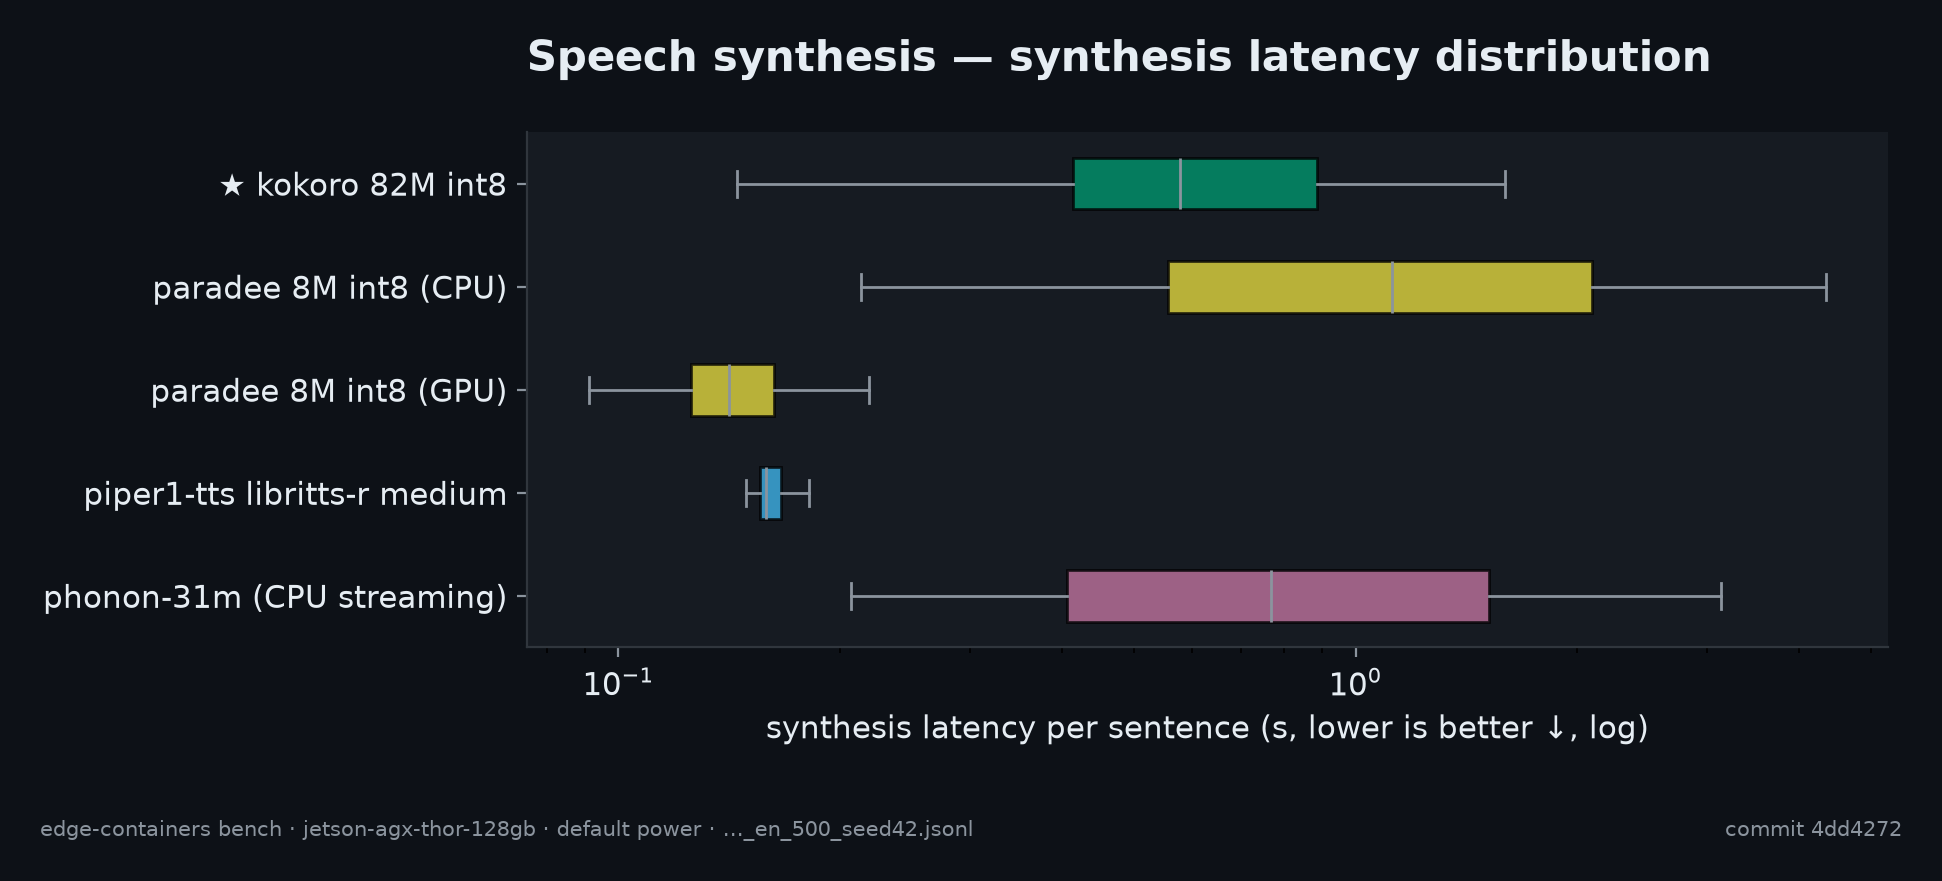
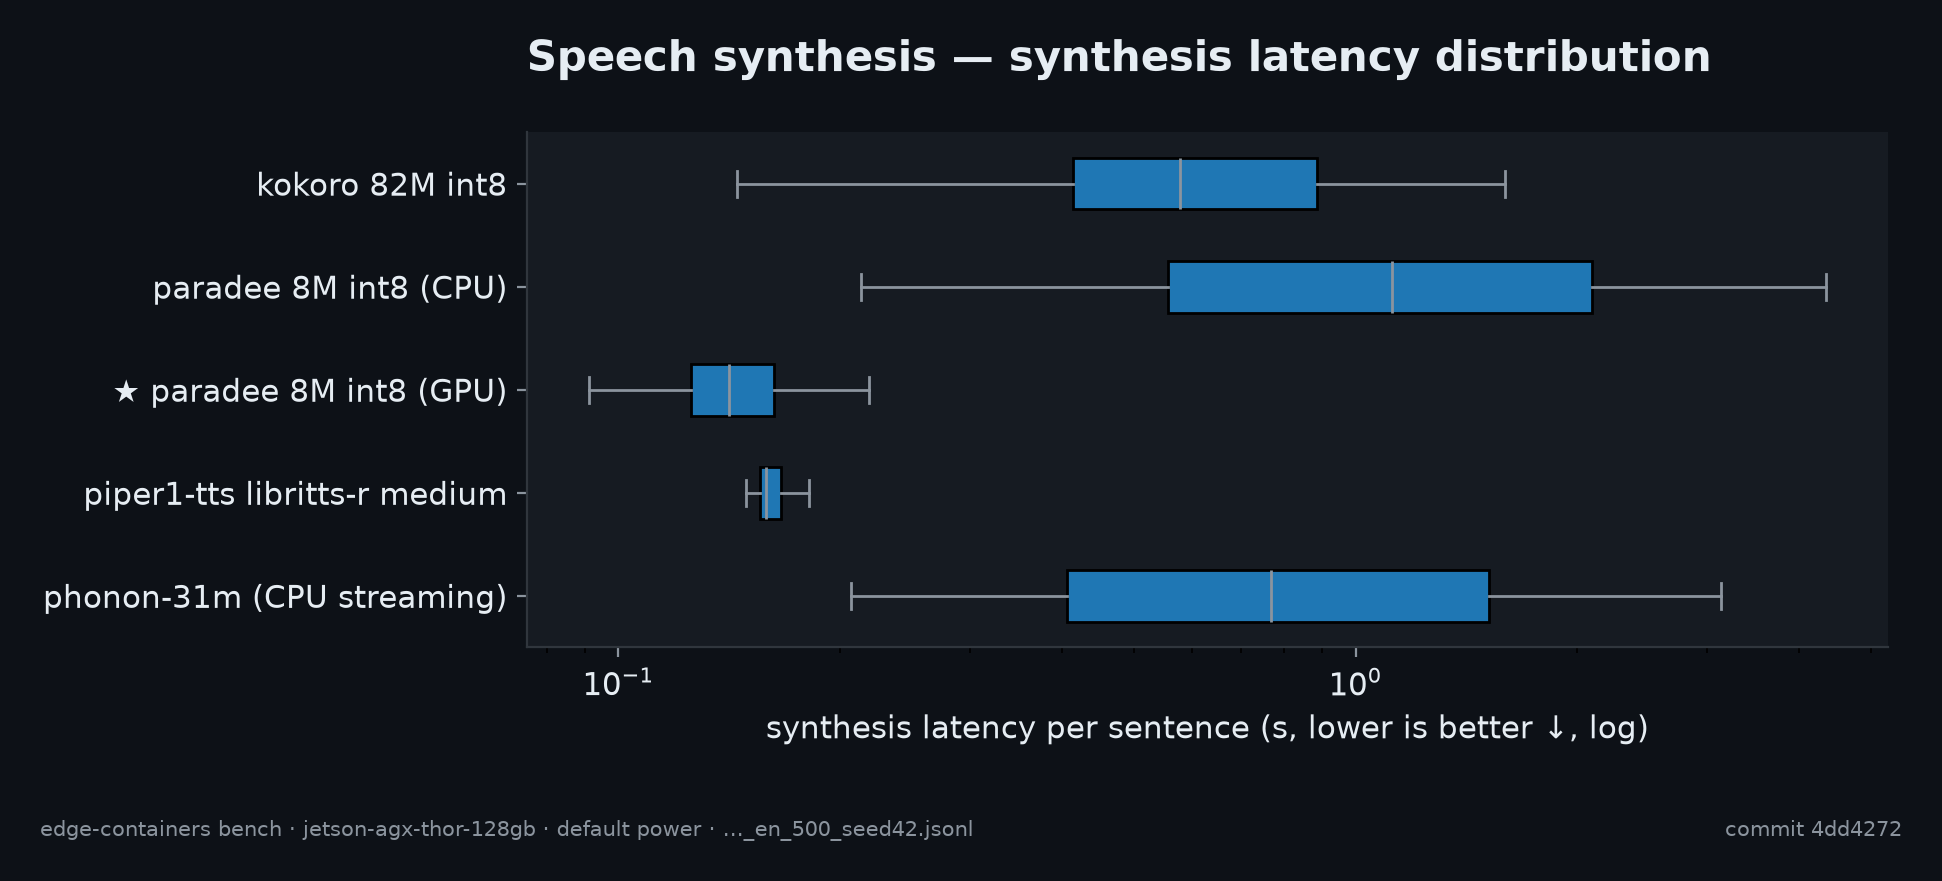
per-chart star semantics (direction-aware metric best: paradee-GPU on RTF, phonon-31m on TTFA, whisper on memory; composite winner only on the aggregate heatmap) + README beauty pass: nav links row, hero charts inline, chart wall collapsed into details, how-to renamed Benchmarking, status note resto

diff --git a/bench/charts.py b/bench/charts.py
@@ -46,30 +46,26 @@ def _load_utterances(bench_root: Path, run_id: str, engine_id: str) -> list[dict
     return rows
 
 
-def _label(row: dict) -> str:
-    """Short series label from the original engine + model (never the config id);
-    the cohort winner carries a star."""
-    return _names.star(row) + _names.display(row)
+def _label(row: dict, star: bool = False) -> str:
+    """Short series label from the original engine + model (never the config id).
+    ``star`` marks the best row FOR THE CHART BEING DRAWN — the metric shown
+    decides (lower is better everywhere), never the composite rank."""
+    return ("★ " if star else "") + _names.display(row)
+
+
+def _best_id(rows, key, lower=True):
+    """id() of the row with the best (direction-aware) value of ``key``."""
+    rows = [r for r in rows if _matrix._metric(r, key) is not None]
+    if not rows:
+        return None
+    fn = min if lower else max
+    return id(fn(rows, key=lambda r: _matrix._metric(r, key)))
 
 
 def _title(ax, text: str, mode: Mode = DARK) -> None:
     """Consistent chart title: big, bold, left-aligned, light on dark."""
     ax.set_title(text, loc="left", fontsize=15, fontweight="bold",
                  color=mode.text, pad=22)
-
-
-def _labels(rows: list[dict]) -> list[str]:
-    """_label per row; duplicate labels get a backend suffix (paradee CPU vs CUDA)."""
-    names = [_label(r) for r in rows]
-    seen: set[str] = set()
-    out = []
-    for r, n in zip(rows, names):
-        if n in seen:
-            out.append(f"{n} ({r.get('requested_backend', '?')})")
-        else:
-            out.append(n)
-        seen.add(n)
-    return out
 
 
 def _backend_marker(row: dict) -> str:
@@ -137,7 +133,8 @@ def stt_ranking(rows: list[dict], mode: Mode = DARK):
     plt = _plt()
     fig, ax = plt.subplots(figsize=(9.5, 4.2))
     apply(fig, ax)
-    names = _labels(rows)
+    best = _best_id(rows, "wer")
+    names = [_label(r, star=id(r) == best) for r in rows]
     wers = [(_matrix._metric(r, "wer") or 0) * 100 for r in rows]
     colors = [row_color(r) for r in rows]
     _hbar(ax, names, wers, colors, mode, "{:.2f}%", "corpus WER % (lower is better ↓)")
@@ -260,7 +257,7 @@ def stt_latency_box(bench_root: Path, rows: list[dict], mode: Mode = DARK):
     plt = _plt()
     fig, ax = plt.subplots(figsize=(9.5, 4.6))
     apply(fig, ax)
-    data, labels, colors = [], [], []
+    data, colors, rows_used = [], [], []
     for r in rows:
         utts = _load_utterances(bench_root, r["run_id"], r["engine_id"])
         rtfs = [
@@ -271,10 +268,13 @@ def stt_latency_box(bench_root: Path, rows: list[dict], mode: Mode = DARK):
         if not rtfs:
             continue
         data.append(rtfs)
-        labels.append(_label(r))
-        colors.append(row_color(r))
+        rows_used.append(r)
     if not data:
         return None
+    best_i = min(
+        range(len(data)), key=lambda i: sorted(data[i])[len(data[i]) // 2]
+    )
+    labels = [_label(r, star=i == best_i) for i, r in enumerate(rows_used)]
     bp = ax.boxplot(
         data, tick_labels=labels, vert=False, patch_artist=True, showfliers=False
     )
@@ -353,7 +353,8 @@ def tts_ranking(rows: list[dict], mode: Mode = DARK):
     plt = _plt()
     fig, ax = plt.subplots(figsize=(9.5, 4.4))
     apply(fig, ax)
-    names = _labels(rows)
+    best = _best_id(rows, "rtf")
+    names = [_label(r, star=id(r) == best) for r in rows]
     rtfs = [_matrix._metric(r, "rtf") for r in rows]
     colors = [row_color(r) for r in rows]
     _hbar(
@@ -381,7 +382,8 @@ def tts_ttfa(rows: list[dict], mode: Mode = DARK):
     if not pts:
         return None
     pts.sort(key=lambda x: x[1])
-    names = [_label(r) for r, _ in pts]
+    best = _best_id([r for r, _ in pts], "ttfa_s")
+    names = [_label(r, star=id(r) == best) for r, _ in pts]
     vals = [v * 1000 for _, v in pts]
     colors = [row_color(r) for r, _ in pts]
     p90s = [(_matrix._metric(r, "ttfa_s_p90") or 0) * 1000 for r, _ in pts]
@@ -426,17 +428,20 @@ def tts_synth_box(bench_root: Path, rows: list[dict], mode: Mode = DARK):
     plt = _plt()
     fig, ax = plt.subplots(figsize=(9.5, 4.2))
     apply(fig, ax)
-    data, labels, colors = [], [], []
+    data, colors, rows_used = [], [], []
     for r in rows:
         utts = _load_utterances(bench_root, r["run_id"], r["engine_id"])
         vals = [u["synth_ns"] / 1e9 for u in utts if u.get("synth_ns")]
         if not vals:
             continue
         data.append(vals)
-        labels.append(_label(r))
-        colors.append(row_color(r))
+        rows_used.append(r)
     if not data:
         return None
+    best_i = min(
+        range(len(data)), key=lambda i: sorted(data[i])[len(data[i]) // 2]
+    )
+    labels = [_label(r, star=i == best_i) for i, r in enumerate(rows_used)]
     bp = ax.boxplot(
         data, tick_labels=labels, vert=False, patch_artist=True, showfliers=False
     )
@@ -476,7 +481,8 @@ def _memory_bars(rows: list[dict], mode: Mode):
     if not pts:
         return None
     pts.sort(key=lambda x: -x[1])
-    names = _labels([r for r, _ in pts])
+    best = _best_id([r for r, _ in pts], "mem_peak_mib")
+    names = [_label(r, star=id(r) == best) for r, _ in pts]
     vals = [v for _, v in pts]
     colors = [row_color(r) for r, _ in pts]
     _hbar(
@@ -511,7 +517,7 @@ def _heatmap(rows: list[dict], task: str, mode: Mode):
     raw_vals, labels = [], []
     for r in sorted(rows, key=lambda x: x.get("rank", 999)):
         raw_vals.append([_matrix._metric(r, k) for k in metric_keys])
-        labels.append(_label(r))
+        labels.append(_label(r, star=r.get("rank") == 1))  # aggregate view -> composite winner
     if len(raw_vals) < 2:
         return None
     grid = []

diff --git a/README.md b/README.md
@@ -15,6 +15,18 @@
   userspace with the GPU driver injected from the host.
 </p>
 
+> Status: **local only** — nothing is on Docker Hub or GitHub yet. The publish
+> workflow activates when this repo is pushed and tagged.
+
+<p align="center">
+  <a href="#engine-families">Families</a> •
+  <a href="#-benchmarks">Benchmarks</a> •
+  <a href="#projects">Projects</a> •
+  <a href="#quick-start">Quick start</a> •
+  <a href="#benchmarking">Benchmarking</a> •
+  <a href="#ci">CI</a>
+</p>
+
 
 ## Engine families
 
@@ -109,6 +121,9 @@ tegrastats module draw over each engine's window; the packed-CPU engine has none
 <img src="assets/benchmarks/stt/stt-wer-vs-rtf.png" alt="Speech recognition — accuracy vs speed with Pareto front" width="100%">
 </p>
 
+<details>
+<summary><strong>More speech-recognition charts</strong> — distribution, power, memory, ranking, heatmap (★ = best on each chart)</summary>
+
 <p align="center">
 <img src="assets/benchmarks/stt/stt-latency-box.png" alt="Speech recognition — per-utterance RTF distributions" width="100%">
 </p>
@@ -122,8 +137,13 @@ tegrastats module draw over each engine's window; the packed-CPU engine has none
 </p>
 
 <p align="center">
+<img src="assets/benchmarks/stt/stt-ranking.png" alt="Speech recognition — corpus WER" width="100%">
+</p>
+
+<p align="center">
 <img src="assets/benchmarks/stt/stt-heatmap.png" alt="Speech recognition — normalized metric heatmap" width="100%">
 </p>
+</details>
 
 
 ### Speech synthesis — 444 sentences (LibriSpeech text)
@@ -150,6 +170,9 @@ their TTFA equals the synth p50/p90.*
 <img src="assets/benchmarks/tts/tts-ttfa.png" alt="Speech synthesis — time to first audio with p90 ticks" width="100%">
 </p>
 
+<details>
+<summary><strong>More speech-synthesis charts</strong> — distributions, memory, heatmap (★ = best on each chart)</summary>
+
 <p align="center">
 <img src="assets/benchmarks/tts/tts-synth-box.png" alt="Speech synthesis — synthesis latency distributions" width="100%">
 </p>
@@ -161,6 +184,7 @@ their TTFA equals the synth p50/p90.*
 <p align="center">
 <img src="assets/benchmarks/tts/tts-heatmap.png" alt="Speech synthesis — normalized metric heatmap" width="100%">
 </p>
+</details>
 
 
 Full per-utterance data, probes and gate details: `reports/matrix/`, `docs/REPORT-benchmark.md`.
@@ -229,7 +253,7 @@ test/{verify_arch,smoke_*}`.
 **Decoupling contract:** an engine references shared artifacts only through a single
 overridable ARG (`WHEELS_IMAGE`, `PARAKEET_DIST_IMAGE`) — see `ARCHITECTURE.md`.
 
-## Benchmarks
+## Benchmarking
 
 ```bash
 make bench-prepare      # frozen manifests: 500 utterances + 444 sentences (LibriSpeech, seed 42)
